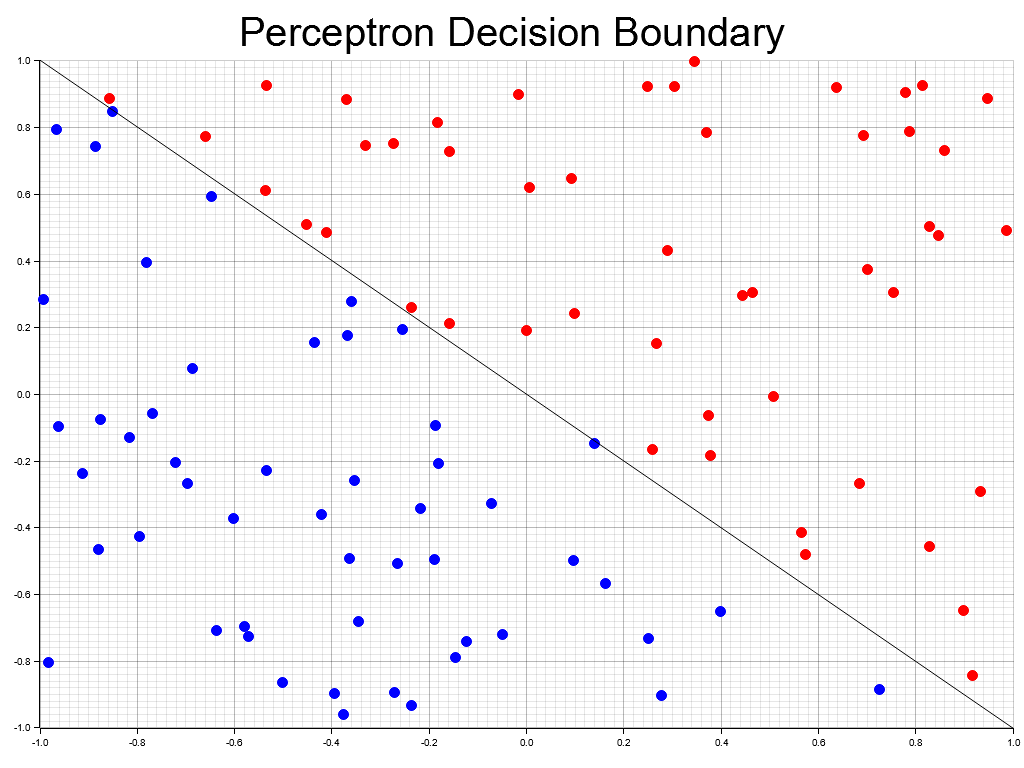
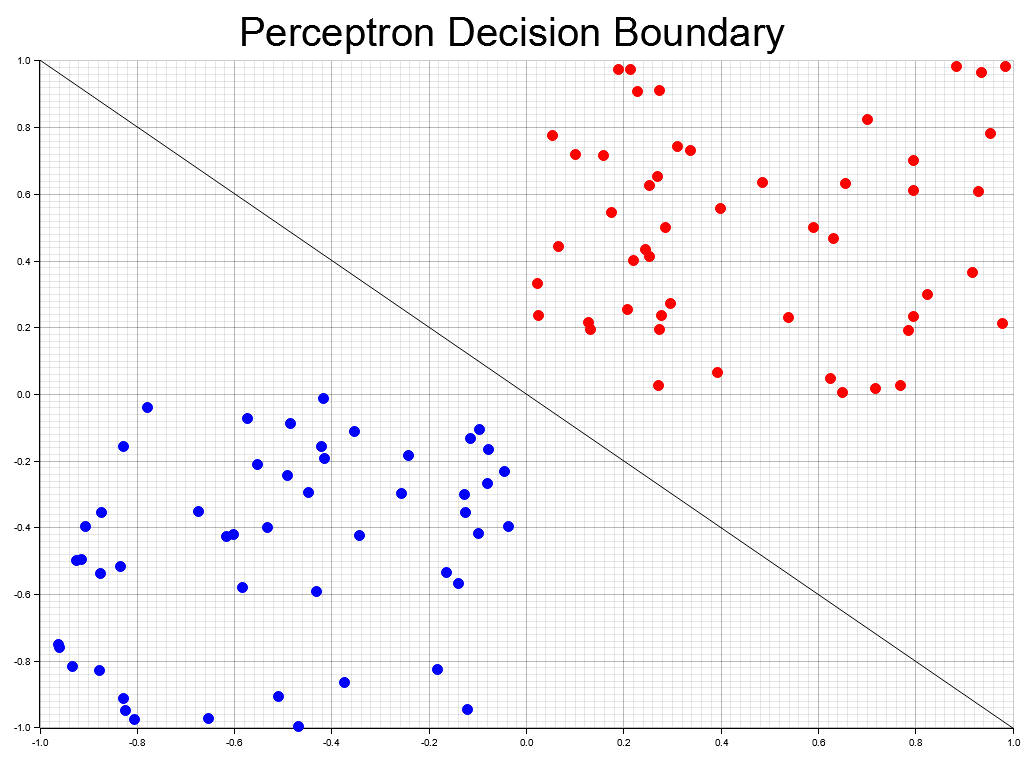
Perceptron V0.2 Made the cluster more random.

diff --git a/src/main.rs b/src/main.rs
@@ -13,34 +13,40 @@ fn main() {
     let learning_rate = 0.1;
     let epochs = 1000;
 
-    //Generate some random data for the traning
-    let training_data: Vec<(Vec<f64>, bool)> = (0..100).map(|_| {
-        let x1: f64 = rng.gen_range(-1.0..1.0);
-        let x2: f64 = rng.gen_range(-1.0..1.0);
-        let y = if x1 + x2 > 0.0 { true } else { false };
-        (vec![x1, x2], y)
-    }).collect();
+    // Generate clustered data for training
+    let cluster_size = 50;
+    let mut training_data = vec![];
+    for _ in 0..cluster_size {
+        let x1: f64 = rng.gen_range(-1.0..0.0);
+        let x2: f64 = rng.gen_range(-1.0..0.0);
+        training_data.push((vec![x1, x2], false));
+    }
+    for _ in 0..cluster_size {
+        let x1: f64 = rng.gen_range(0.0..1.0);
+        let x2: f64 = rng.gen_range(0.0..1.0);
+        training_data.push((vec![x1, x2], true));
+    }
 
     let mut perceptron = Perceptron::new(num_features, learning_rate);
     perceptron.train(&training_data, epochs);
 
-    plot_data(&training_data, &perceptron);
-}
-
-//This will be our activation function which is a step function
-fn step_function(input: f64) -> bool {
-    return if input > 0.0 {
-        true
+    if perceptron.can_separate(&training_data) {
+        plot_data(&training_data, &perceptron);
     } else {
-        false
+        println!("A line cannot be made.");
     }
 }
 
+// This will be our activation function which is a step function
+fn step_function(input: f64) -> bool {
+    input > 0.0
+}
+
 impl Perceptron {
-    //This initializes random weights and bias for the Perceptron. The num_features is just the range of random numbers used
+    // This initializes random weights and bias for the Perceptron. The num_features is just the range of random numbers used
     pub fn new(num_features: usize, learning_rate: f64) -> Perceptron {
         let mut rng = rand::thread_rng();
-        let weights = (0..num_features).map(|_| rng.gen_range(-1.0..1.0)).collect(); //The map function is applied to the vector and iterates through each item in the vector. The |_| is used  to indicate that a variable is intentionally ignored (it's random, so we don't care what the value is).
+        let weights = (0..num_features).map(|_| rng.gen_range(-1.0..1.0)).collect();
         let bias = rng.gen_range(-1.0..1.0);
         Perceptron {
             weights,
@@ -50,26 +56,26 @@ impl Perceptron {
     }
 
     fn predict(&self, inputs: &Vec<f64>) -> bool {
-        let sum: f64 = self.weights.iter().zip(inputs).map(|(w,x)| w * x).sum::<f64>() + self.bias;
-        return step_function(sum);
+        let sum: f64 = self.weights.iter().zip(inputs).map(|(w, x)| w * x).sum::<f64>() + self.bias;
+        step_function(sum)
     }
 
-
     fn train(&mut self, training_data: &Vec<(Vec<f64>, bool)>, epochs: usize) {
-        /* An epoch represents one complete pass through the entire training dataset. */
         for _ in 0..epochs {
             for (inputs, target) in training_data {
                 let prediction = self.predict(inputs);
                 let error = (*target as i32 - prediction as i32) as f64;
 
-                /*This inner loop iterates over each data point in the training dataset.*/
                 for i in 0..self.weights.len() {
                     self.weights[i] += self.learning_rate * error * inputs[i];
-
                 }
                 self.bias += self.learning_rate * error;
             }
         }
+    }
+
+    fn can_separate(&self, training_data: &Vec<(Vec<f64>, bool)>) -> bool {
+        training_data.iter().all(|(inputs, target)| self.predict(inputs) == *target)
     }
 }
 
@@ -96,7 +102,7 @@ fn plot_data(training_data: &Vec<(Vec<f64>, bool)>, perceptron: &Perceptron) {
                 color,
                 &|c, s, st| {
                     return EmptyElement::at(c)    // We want to construct a composed element on-the-fly
-                        + Circle::new((0,0),s,st.filled());
+                        + Circle::new((0, 0), s, st.filled());
                 },
             ))
             .unwrap();
